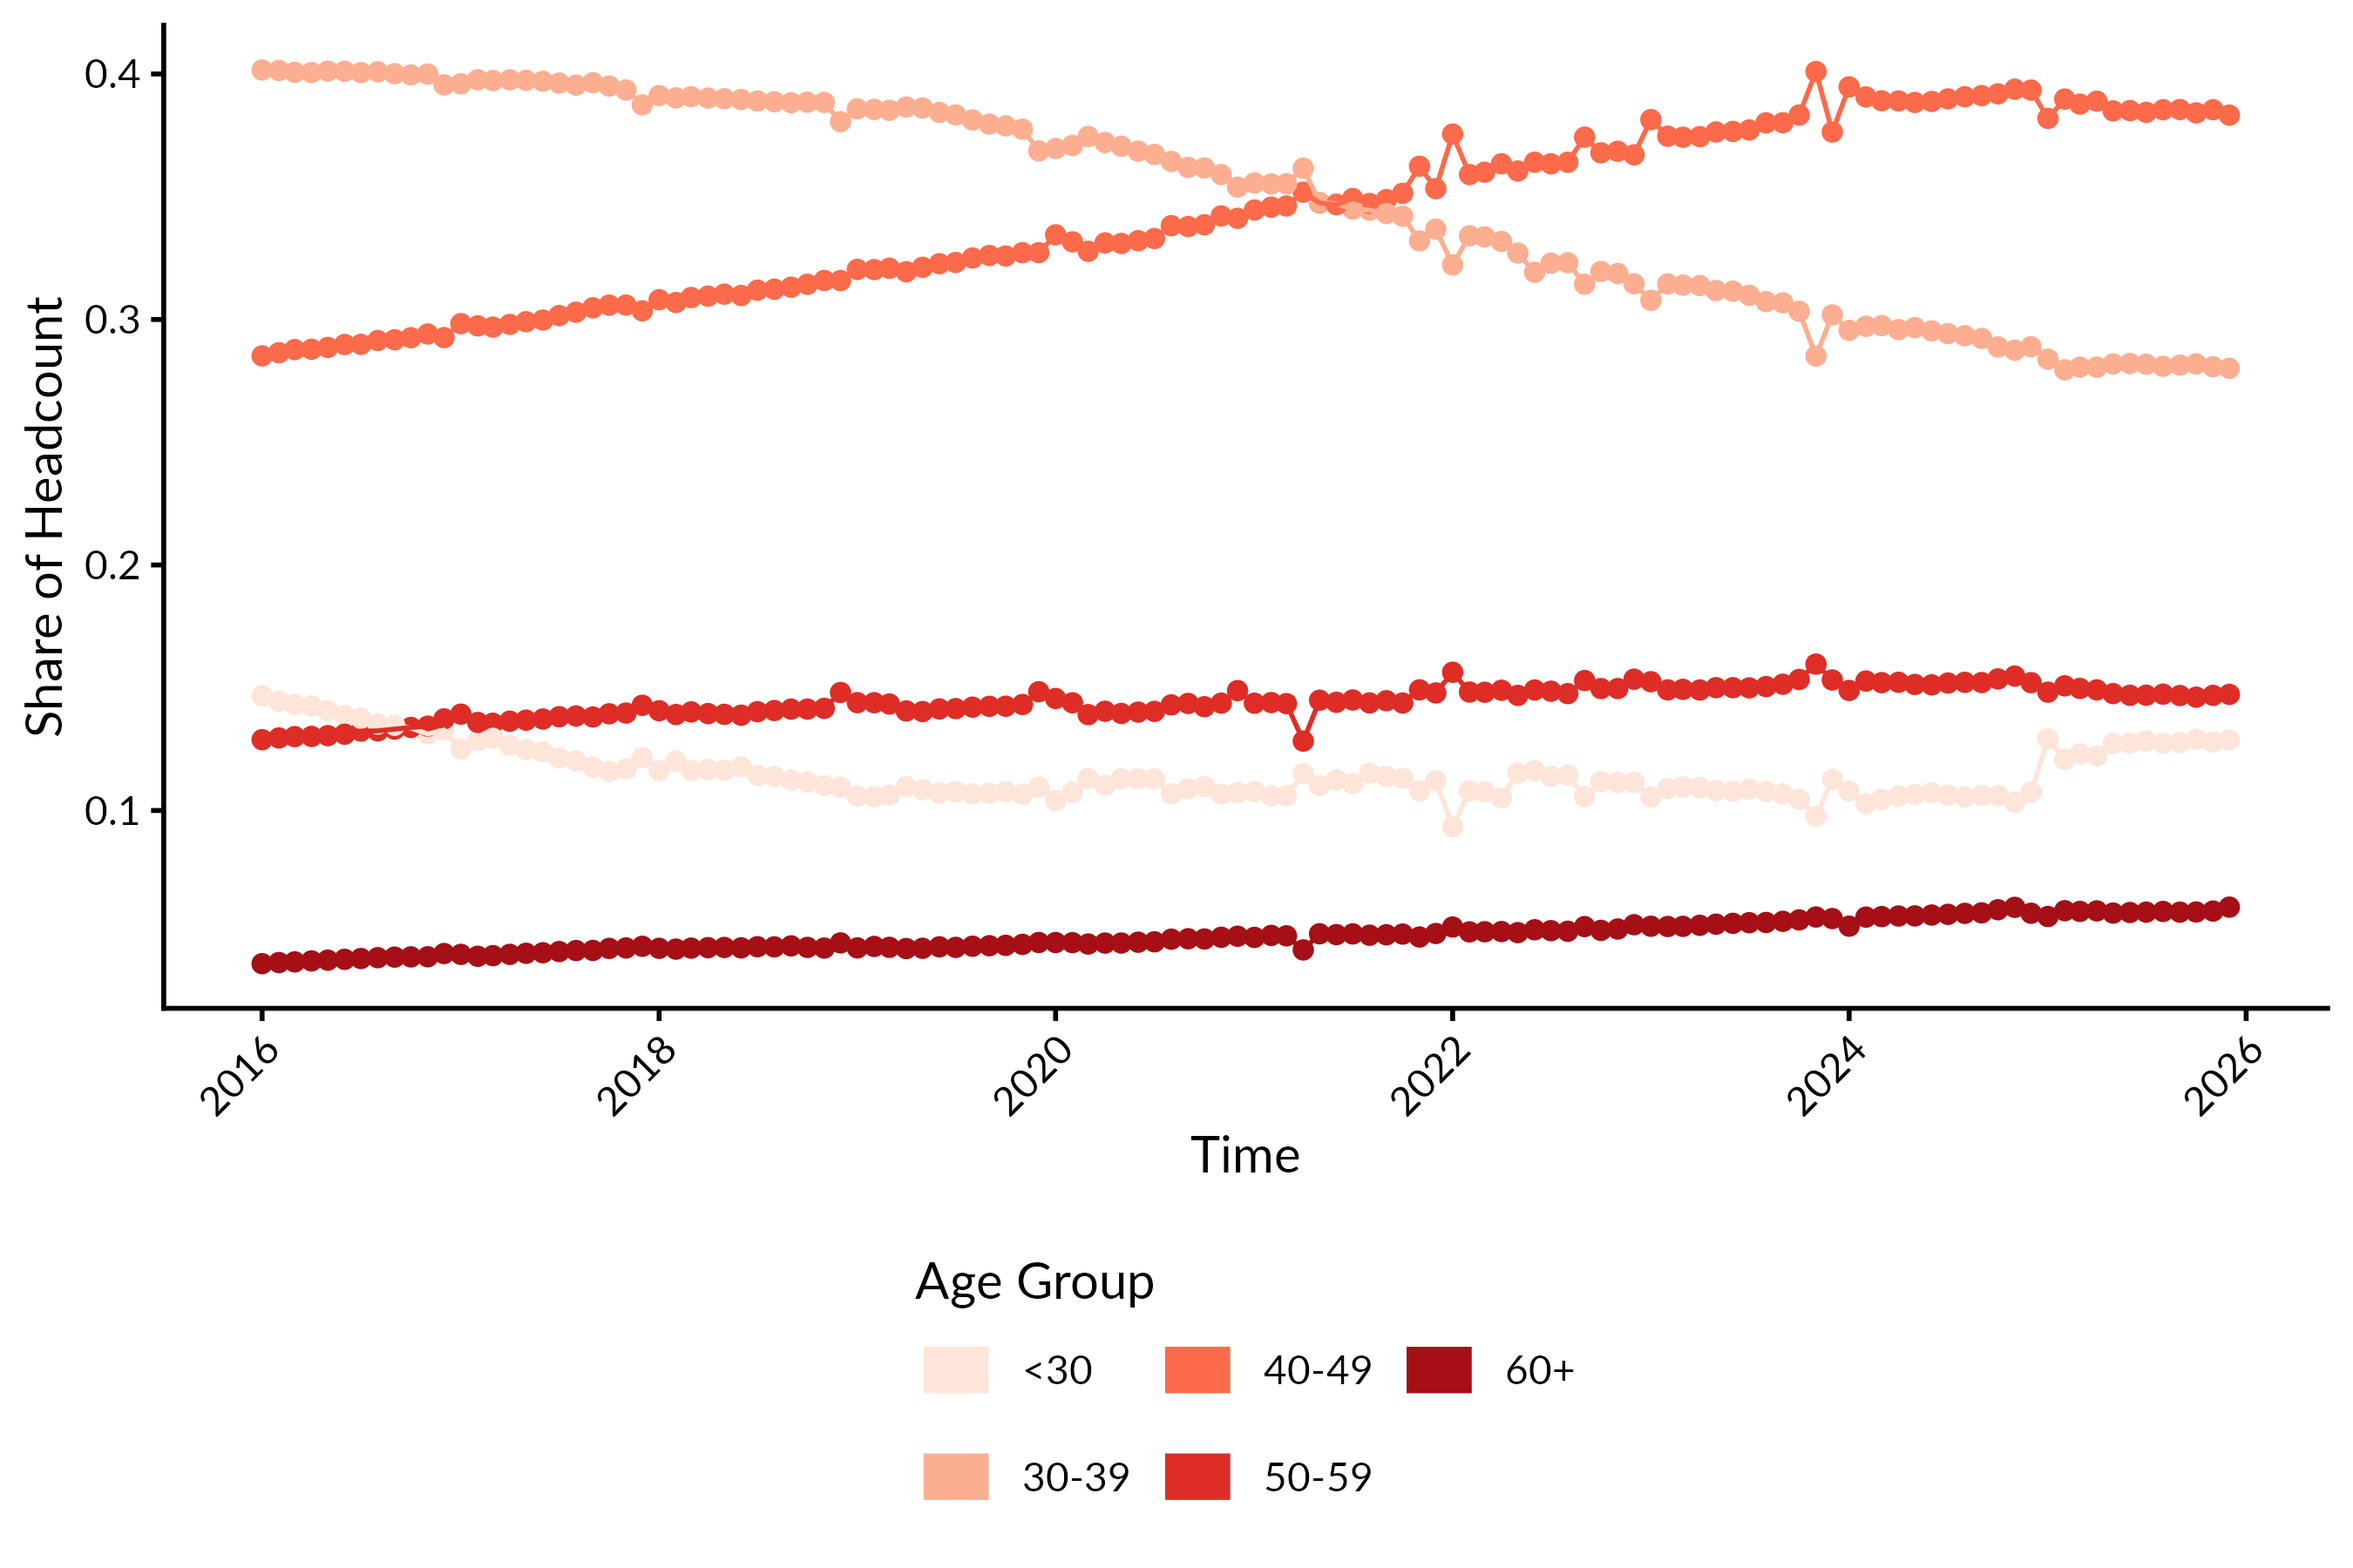
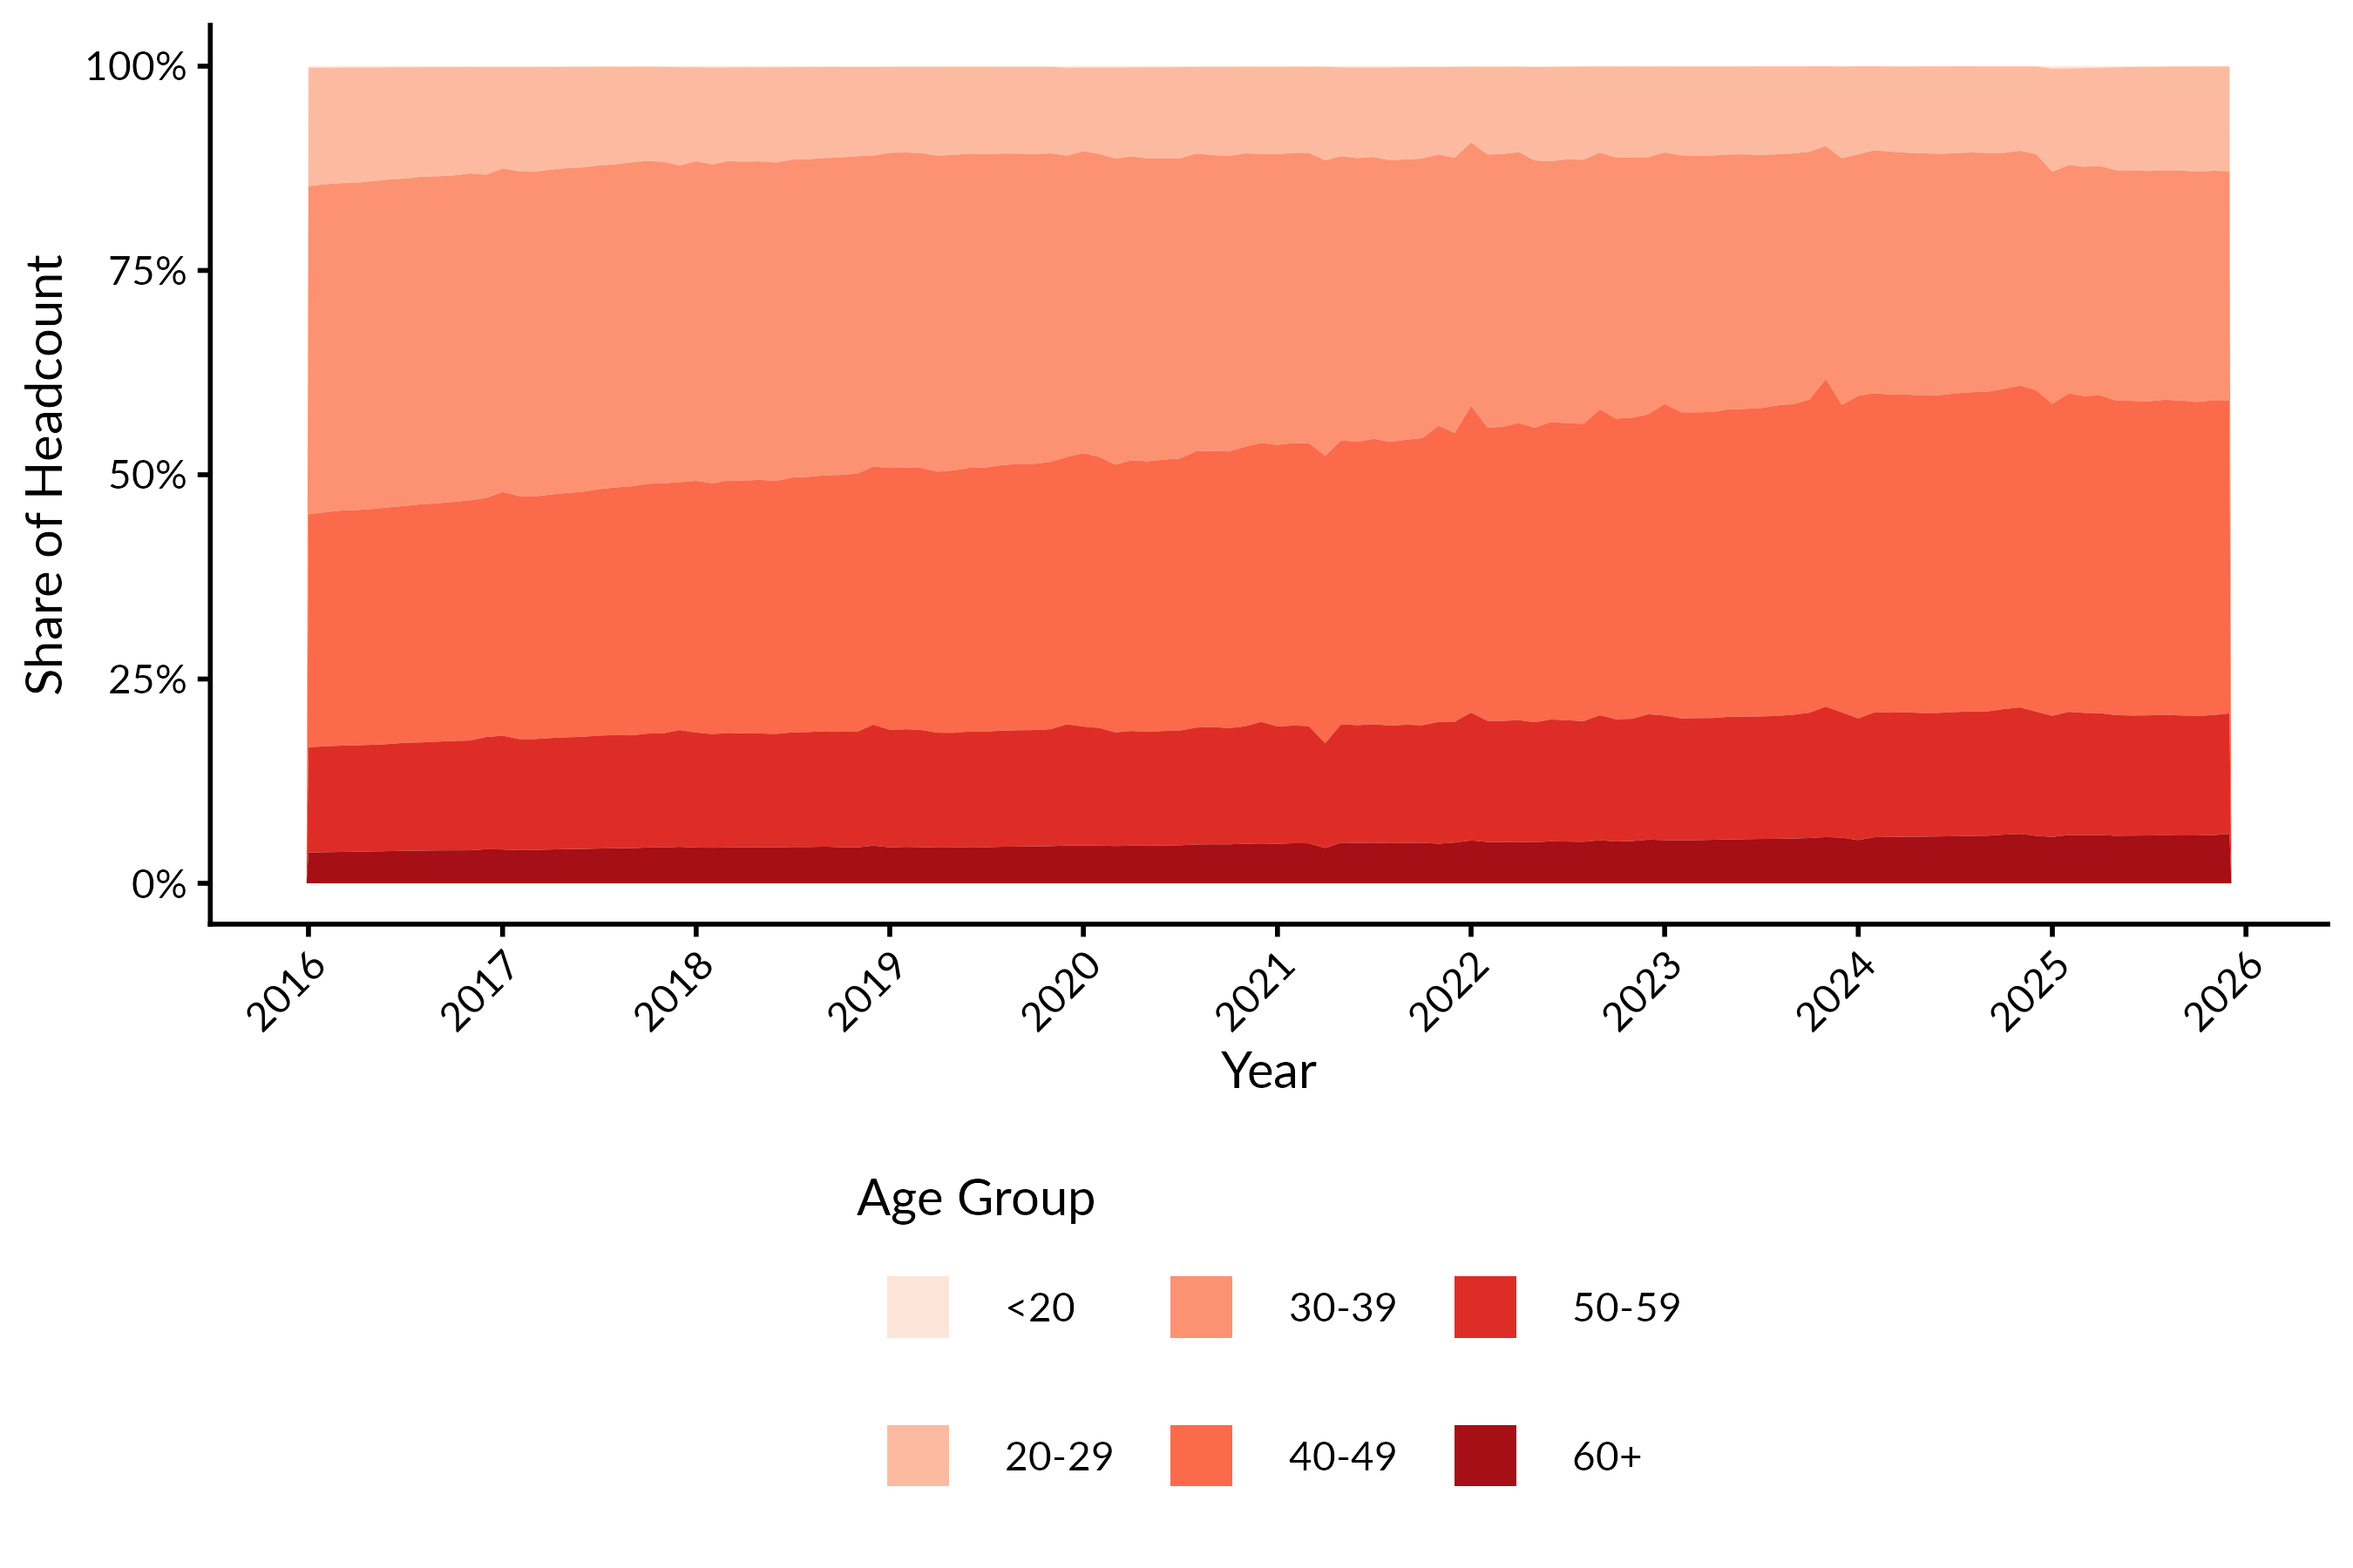
move figs

diff --git a/README.md b/README.md
@@ -20,7 +20,7 @@ govhr-pry/
 ├── analysis/
 │   ├── source/
 │   │   ├── workforce_analytics.R   # headcount, composition, hires/separations, transitions
-│   │   ├── wagebill_analytics.R    # wage bill, growth decomposition, compensation
+│   │   ├── wagebill_analytics.R    # wage bill, growth decomposition, wages
 │   │   └── standard_analytics.R    # earlier combined script (workforce + CPI deflation)
 │   └── figs/                # PNG output of the analysis scripts
 ├── references/              # SFP data dictionary and MEF budget classifier (PGN 2026)
@@ -106,9 +106,9 @@ The analysis follows the standard `govhr` diagnostic of public-sector employment
 - Movements: monthly hire and separation rates, overall and for the nine largest establishments, plus net rates.
 - Career transitions: a network of moves between establishments.
 
-**Wage bill and compensation** ([wagebill_analytics.R](analysis/source/wagebill_analytics.R))
+**Wage bill and wages** ([wagebill_analytics.R](analysis/source/wagebill_analytics.R))
 - Wage bill level and growth: total, by establishment, and split into base salary and allowances.
 - Composition of the wage bill: share paid as base salary vs. allowances.
-- Growth decomposition of the wage bill into employment, compensation and interaction effects.
-- Average compensation: by salary component, contract type and gender.
-- Compensation distribution: overall and by gender.
+- Growth decomposition of the wage bill into employment, wage and interaction effects.
+- Average wage: by salary component, contract type and gender.
+- Wage distribution: overall and by gender.
